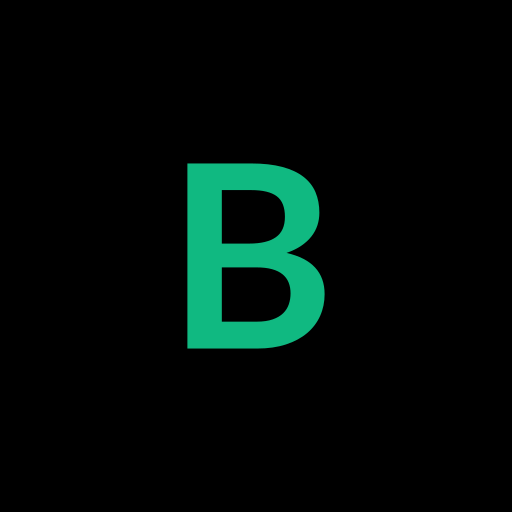
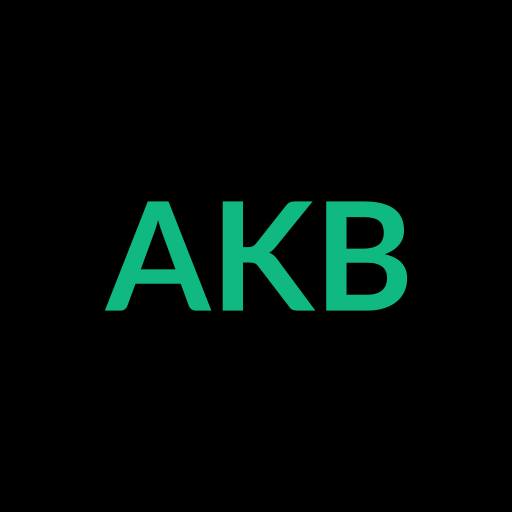
change backend related

Changed region(s): [[0.1875, 0.3125, 0.8125, 0.6875]]

diff --git a/react-app/src/context/AuthProvider.jsx b/react-app/src/context/AuthProvider.jsx
@@ -2,6 +2,8 @@ import React, { createContext, useContext, useState, useEffect } from 'react';
 import { useGoogleLogin } from '@react-oauth/google';
 import { isAdminEmail } from '../config/AdminConfig';
 
+import { API_BASE_URL } from '../config/api';
+
 const AuthContext = createContext();
 
 export function AuthProvider({ children }) {
@@ -12,7 +14,7 @@ export function AuthProvider({ children }) {
 
     const refreshAccessToken = async () => {
         try {
-            const res = await fetch('http://localhost:4000/api/auth/google/refresh', {
+            const res = await fetch(`${API_BASE_URL}/api/auth/google/refresh`, {
                 method: 'POST',
                 credentials: 'include', // Send cookies
             });
@@ -99,7 +101,7 @@ export function AuthProvider({ children }) {
         access_type: 'offline', // access_type: 'offline' is implied by flow='auth-code' usually, but good to be specific if supported
         onSuccess: async (codeResponse) => {
             try {
-                const res = await fetch('http://localhost:4000/api/auth/google/login', {
+                const res = await fetch(`${API_BASE_URL}/api/auth/google/login`, {
                     method: 'POST',
                     headers: { 'Content-Type': 'application/json' },
                     body: JSON.stringify({ code: codeResponse.code }),
@@ -137,7 +139,7 @@ export function AuthProvider({ children }) {
 
     const logout = async () => {
         try {
-            await fetch('http://localhost:4000/api/auth/google/logout', {
+            await fetch(`${API_BASE_URL}/api/auth/google/logout`, {
                 method: 'POST',
                 credentials: 'include'
             });

diff --git a/react-app/index.html b/react-app/index.html
@@ -1,15 +1,25 @@
 <!doctype html>
 <html lang="en">
 
+<head>
     <meta charset="UTF-8" />
     <meta name="viewport" content="width=device-width, initial-scale=1.0" />
     <meta name="theme-color" content="#10b981" />
-    <title>BijNex</title>
+    <title>AapKaBakaya</title>
+
+    <!-- PWA Meta Tags -->
+    <meta name="description" content="Zero-cost inventory and billing management for Indian retail shops" />
+    <meta name="apple-mobile-web-app-capable" content="yes" />
+    <meta name="apple-mobile-web-app-status-bar-style" content="black-translucent" />
+    <meta name="apple-mobile-web-app-title" content="AapKaBakaya" />
+
+    <!-- PWA Manifest & Icons (Injectable by plugin but good to reference) -->
+    <link rel="apple-touch-icon" href="/pwa-192x192.png" />
 </head>
 
-    <body>
-        <div id="root"></div>
-        <script type="module" src="/src/main.jsx"></script>
-    </body>
+<body>
+    <div id="root"></div>
+    <script type="module" src="/src/main.jsx"></script>
+</body>
 
 </html>

diff --git a/app/next.config.ts b/app/next.config.ts
@@ -11,14 +11,12 @@ const nextConfig: NextConfig = {
   async headers() {
     return [
       {
-        source: "/api/:path*",
-        headers: [
           { key: "Access-Control-Allow-Credentials", value: "true" },
-          { key: "Access-Control-Allow-Origin", value: "http://localhost:5173" },
-          { key: "Access-Control-Allow-Methods", value: "GET,DELETE,PATCH,POST,PUT" },
-          { key: "Access-Control-Allow-Headers", value: "X-CSRF-Token, X-Requested-With, Accept, Accept-Version, Content-Length, Content-MD5, Content-Type, Date, X-Api-Version" },
-        ]
-      }
+      { key: "Access-Control-Allow-Origin", value: process.env.ALLOWED_ORIGIN || "http://localhost:5173" },
+      { key: "Access-Control-Allow-Methods", value: "GET,DELETE,PATCH,POST,PUT" },
+      { key: "Access-Control-Allow-Headers", value: "X-CSRF-Token, X-Requested-With, Accept, Accept-Version, Content-Length, Content-MD5, Content-Type, Date, X-Api-Version" },
+    ]
+  }
     ]
   }
 };

diff --git a/react-app/src/config/api.js b/react-app/src/config/api.js
@@ -1,0 +1,22 @@
+// API Configuration for AapKaBakaya
+
+// 1. If VITE_API_URL is set (e.g. in Vercel), use it.
+// 2. Else, if we are on localhost, assume backend is on port 4000.
+// 3. Otherwise, relative path (if backend is on same domain) or placeholders.
+
+const getBaseUrl = () => {
+    if (import.meta.env.VITE_API_URL) {
+        return import.meta.env.VITE_API_URL;
+    }
+
+    // Fallback for local development
+    if (window.location.hostname === 'localhost' || window.location.hostname === '127.0.0.1') {
+        return 'http://localhost:4000';
+    }
+
+    // Fallback for production if env var is missing (User needs to set it!)
+    console.warn("API_URL not set in production! Defaulting to current origin.");
+    return window.location.origin;
+};
+
+export const API_BASE_URL = getBaseUrl();

diff --git a/react-app/vite.config.js b/react-app/vite.config.js
@@ -10,8 +10,8 @@ export default defineConfig({
             registerType: 'autoUpdate',
             includeAssets: ['favicon.ico', 'apple-touch-icon.png', 'mask-icon.svg'],
             manifest: {
-                name: 'BijNex',
-                short_name: 'BijNex',
+                name: 'AapKaBakaya',
+                short_name: 'AapKaBakaya',
                 description: 'Zero-cost inventory and billing management for Indian retail shops',
                 theme_color: '#10b981',
                 background_color: '#ffffff',

diff --git a/react-app/src/pages/HomePage.jsx b/react-app/src/pages/HomePage.jsx
@@ -52,7 +52,7 @@ export default function HomePage() {
             <div className={styles.header}>
                 <div>
                     <h2 className={styles.greeting}>{t('home.greeting')}, {greetingName} 👋</h2>
-                    <h1 className={styles.title}>BijNex</h1>
+                    <h1 className={styles.title}>AapKaBakaya</h1>
                 </div>
                 {/* Refresh for Home too */}
                 <Button variant="ghost" onClick={fetchInventory} className="!p-2 text-white/50 hover:text-white">

diff --git a/react-app/src/pages/LandingPage.jsx b/react-app/src/pages/LandingPage.jsx
@@ -128,7 +128,7 @@ export default function LandingPage() {
                         <div className={styles.logoWrapper}>
                             <span className={styles.logoText}>B</span>
                         </div>
-                        <h1 className={styles.title}>BijNex</h1>
+                        <h1 className={styles.title}>AapKaBakaya</h1>
                         <p className={styles.subtitle}>Inventory • Billing • Reports</p>
                     </div>
                 ) : (

diff --git a/react-app/src/components/Sidebar.module.css b/react-app/src/components/Sidebar.module.css
@@ -33,15 +33,17 @@
 }
 
 .logoIcon {
-    width: 32px;
-    height: 32px;
+    width: 48px;
+    height: 48px;
     background-color: hsl(var(--primary));
-    border-radius: 8px;
+    border-radius: 12px;
     display: flex;
     align-items: center;
     justify-content: center;
     color: black;
-    font-weight: 700;
+    font-weight: 800;
+    font-size: 1.25rem;
+    flex-shrink: 0;
 }
 
 .nav {

diff --git a/react-app/src/components/Sidebar.jsx b/react-app/src/components/Sidebar.jsx
@@ -19,8 +19,8 @@ export default function Sidebar() {
     return (
         <aside className={styles.sidebar}>
             <div className={styles.logo}>
-                <div className={styles.logoIcon}>B</div>
-                BijNex
+                <div className={styles.logoIcon}>AKB</div>
+                AapKaBakaya
             </div>
 
             <nav className={styles.nav}>
